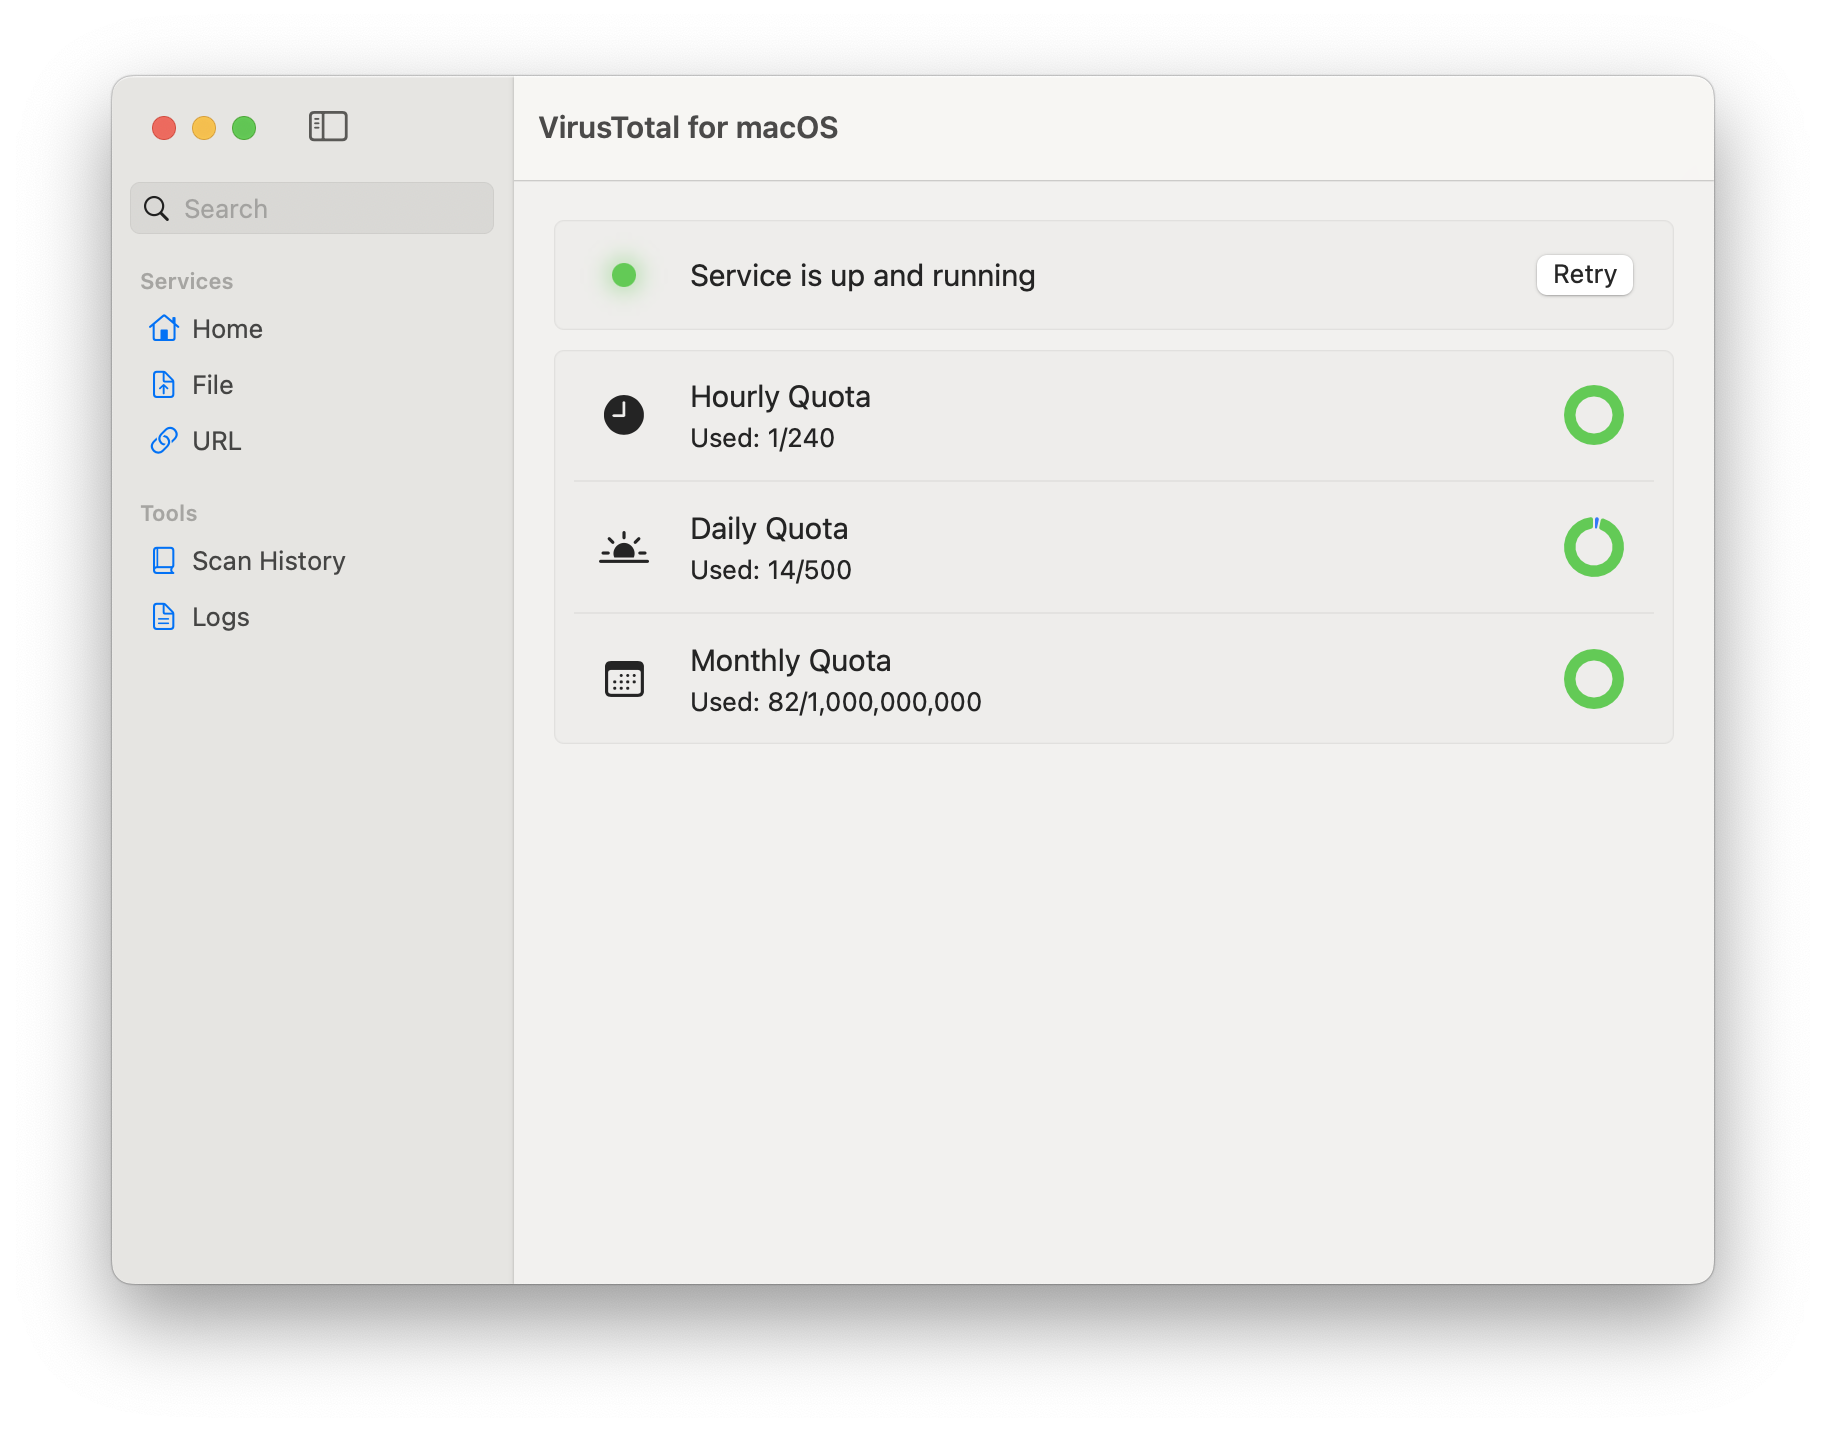
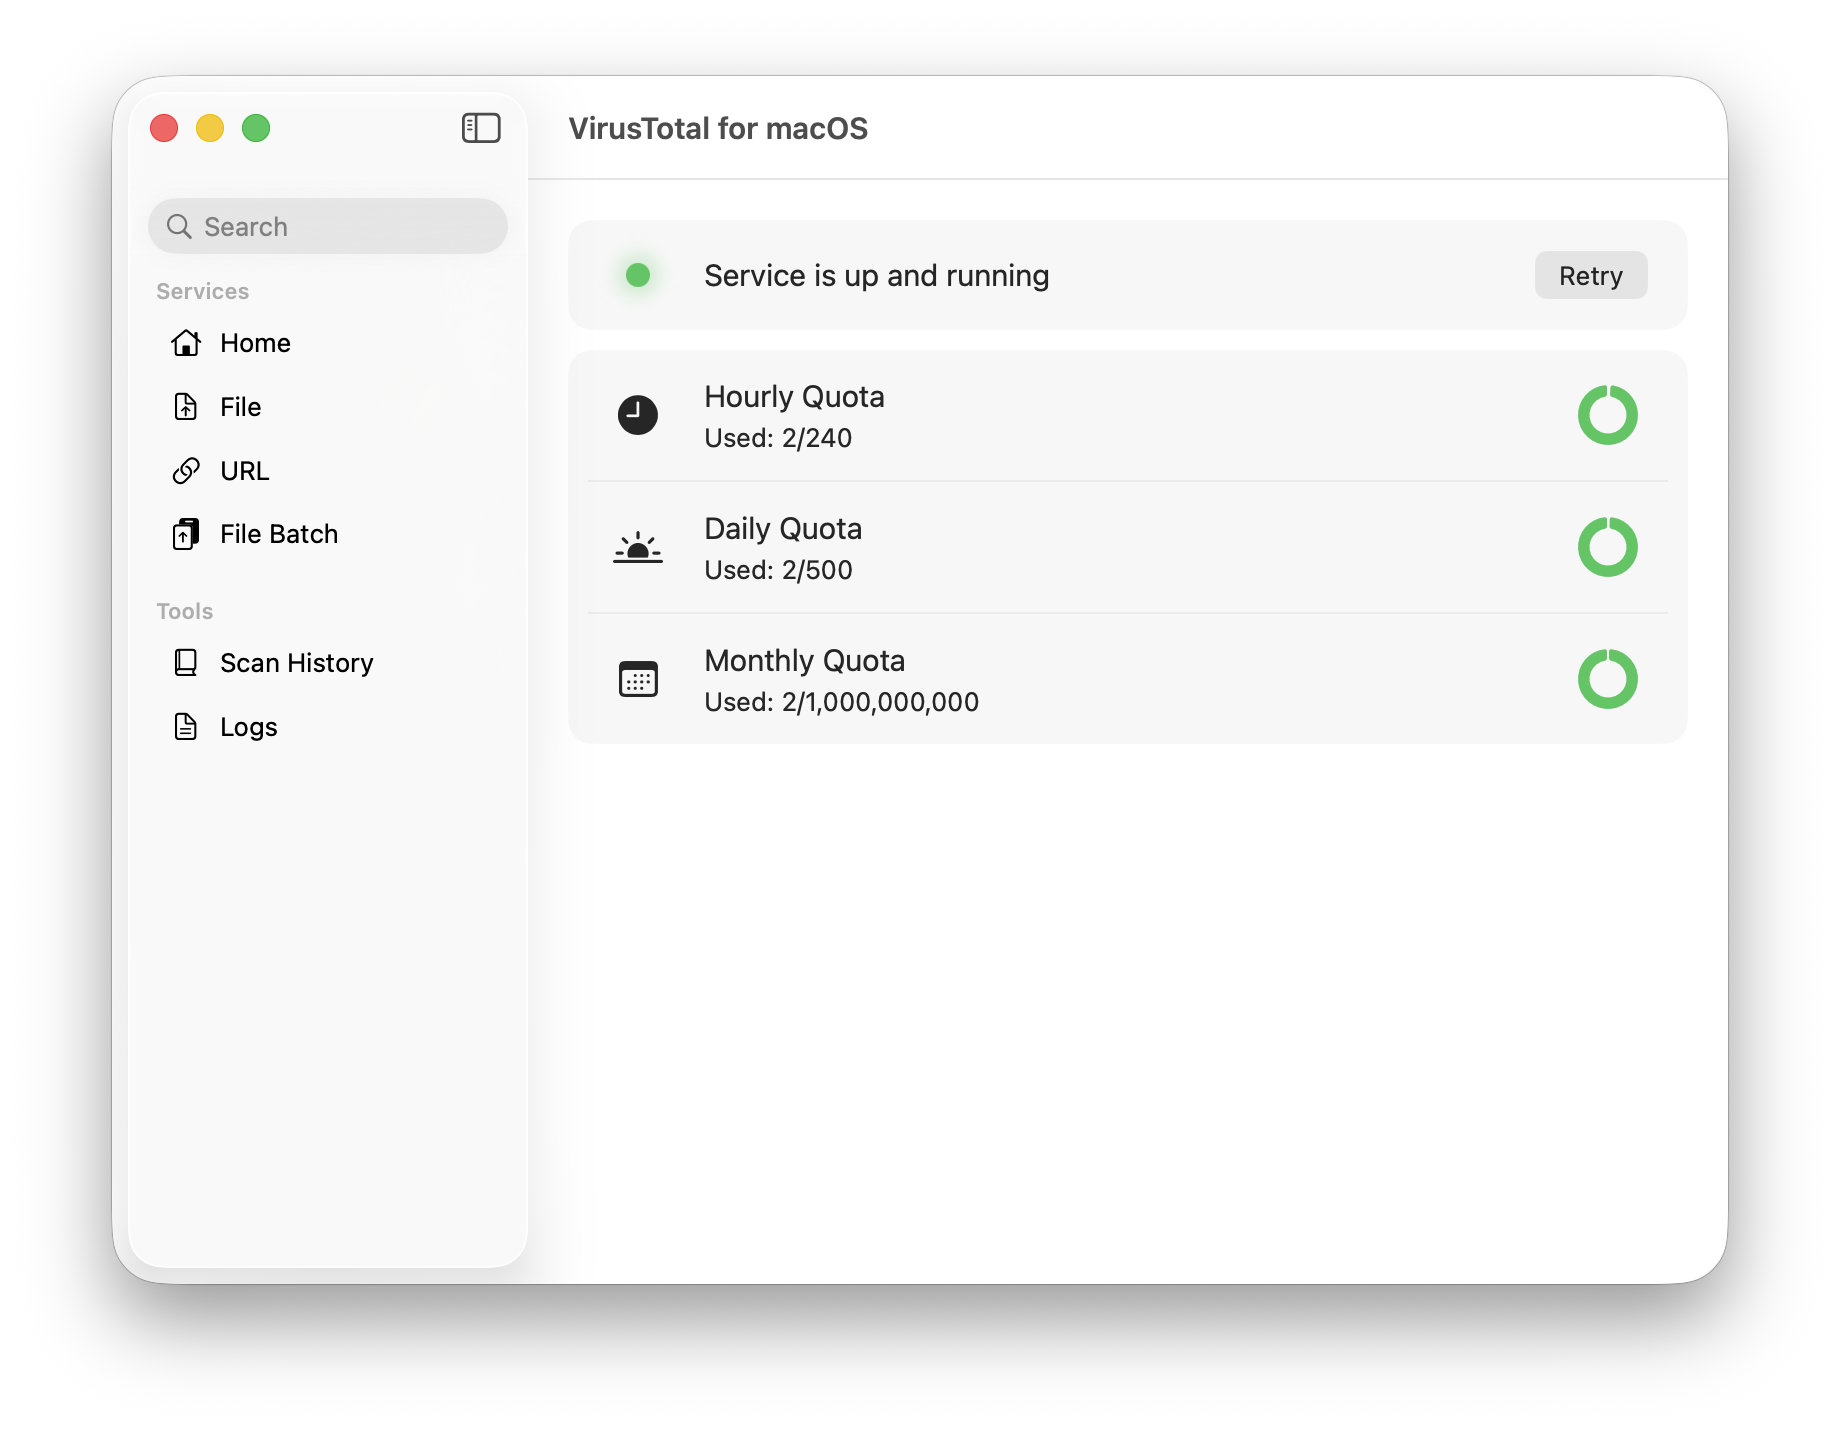
docs: update screenshots

diff --git a/README.md b/README.md
@@ -59,6 +59,9 @@ Upload a File and get an analysis report
 ### URL Scanning
 Scan a URL with ease
 <img src="https://github.com/Jerry23011/VirusTotal-macOS/blob/main/Resources/URL_EN.png"/>
+### File Batch Scanning
+Upload multiple files
+<img src="https://github.com/Jerry23011/VirusTotal-macOS/blob/main/Resources/FileBatch_EN.png"/>
 ### Scan History
 View scan history
 <img src="https://github.com/Jerry23011/VirusTotal-macOS/blob/main/Resources/ScanHistory_EN.png"/>
